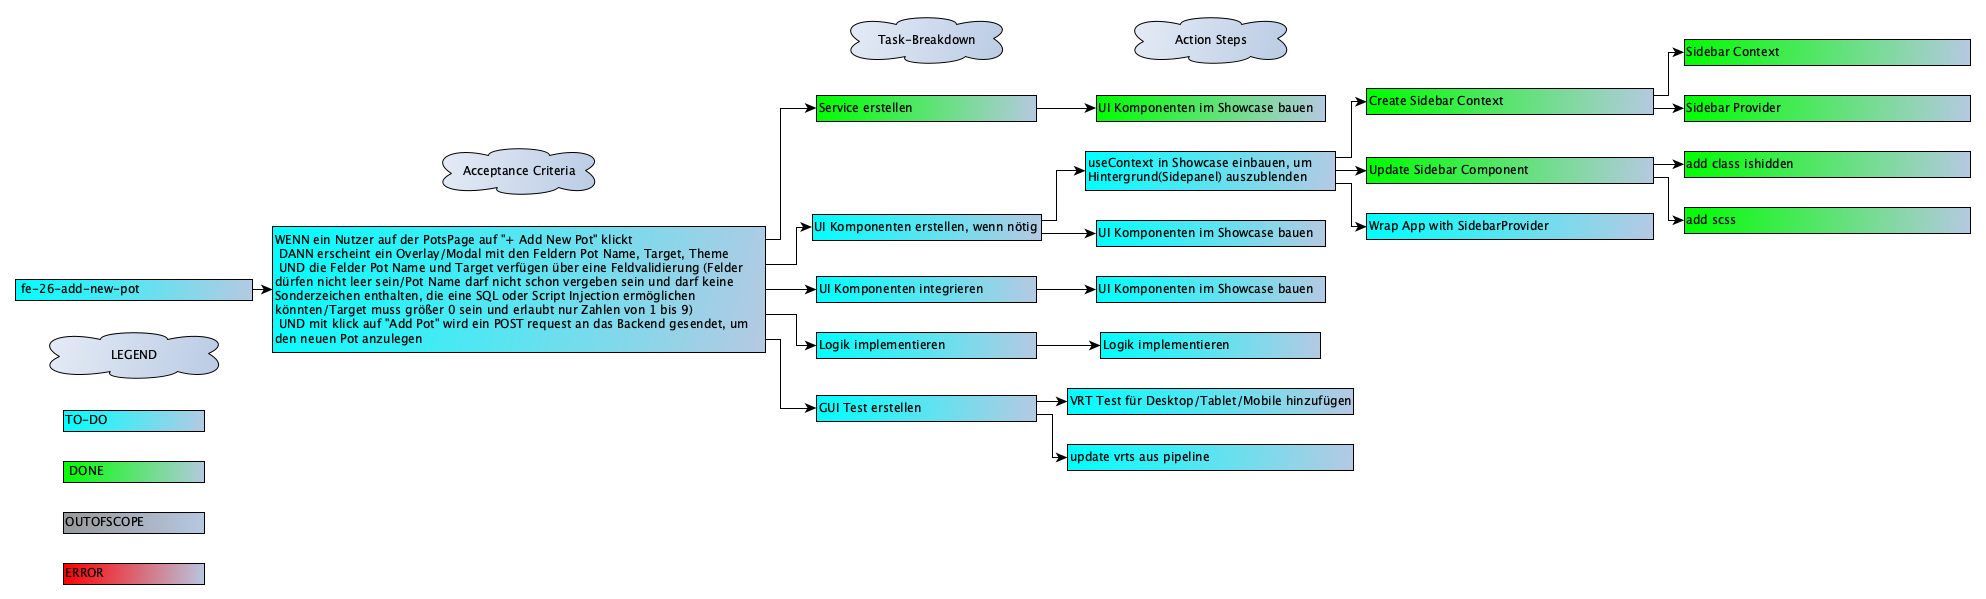
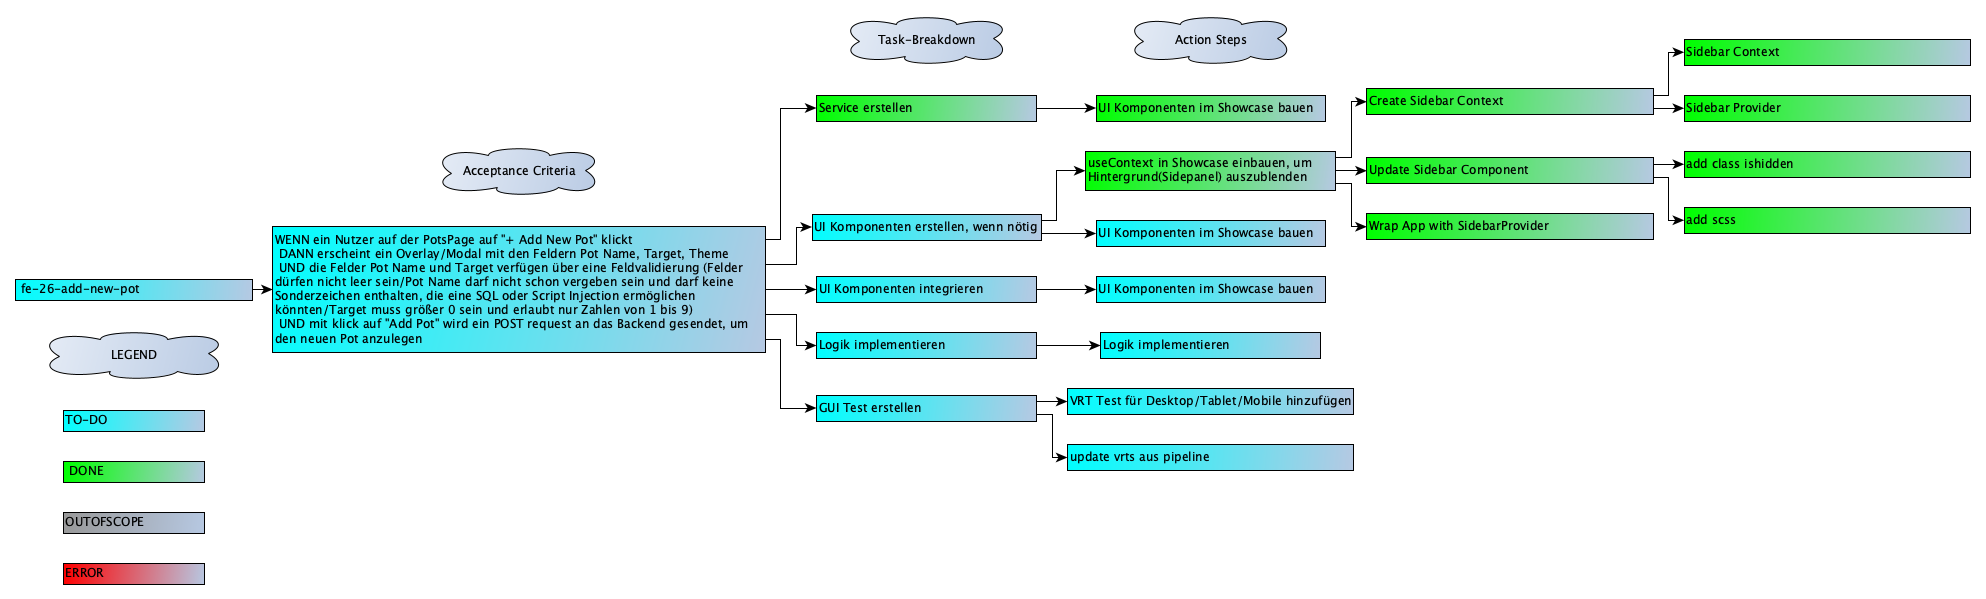
fe-26 wrap SidebarProvider around App

Changed region(s): [[0.5307, 0.2404, 0.6868, 0.3306], [0.6868, 0.3306, 0.8429, 0.4207]]

diff --git a/frontend/src/main.spec.tsx b/frontend/src/main.spec.tsx
@@ -1,5 +1,7 @@
 import { createRoot } from 'react-dom/client';
 import { renderApp } from './main';
+import { isValidElement, ReactElement } from 'react';
+import App from './App';
 
 jest.mock('react-dom/client', () => ({
   createRoot: jest.fn(() => ({
@@ -12,10 +14,28 @@ describe('main', () => {
     document.body.innerHTML = '<div id="root"></div>';
 
     renderApp();
-    const rootElement = document.getElementById('root');
+    const rootElement: HTMLElement | null = document.getElementById('root');
 
     expect(rootElement).not.toBeNull();
     expect(createRoot).toHaveBeenCalledWith(rootElement);
+  });
+
+  it('renders SidebarProvider', () => {
+    document.body.innerHTML = '<div id="root"></div>';
+
+    const content: ReactElement | undefined = renderApp();
+    const sidebarProvider = content?.props.children;
+
+    expect(isValidElement(sidebarProvider)).toBe(true);
+  });
+
+  it('renders App', () => {
+    document.body.innerHTML = '<div id="root"></div>';
+
+    const content: ReactElement | undefined = renderApp();
+    const sidebarProvider = content?.props.children;
+
+    expect(sidebarProvider?.props.children).toEqual(<App />);
   });
 
   it('logs an error if root element does not exist', () => {

diff --git a/frontend/src/main.tsx b/frontend/src/main.tsx
@@ -1,19 +1,25 @@
-import { StrictMode } from 'react';
+import { ReactElement, StrictMode } from 'react';
 import { createRoot } from 'react-dom/client';
 import App from './App';
 import './index.scss';
+import SidebarProvider from './components/provider/SidebarProvider';
 
-export const renderApp = () => {
+export const renderApp = (): ReactElement | undefined => {
   const rootElement: HTMLElement | null = document.getElementById('root');
 
   if (rootElement) {
-    createRoot(rootElement).render(
+    const content: ReactElement = (
       <StrictMode>
-        <App />
+        <SidebarProvider>
+          <App />
+        </SidebarProvider>
       </StrictMode>
     );
+    createRoot(rootElement).render(content);
+    return content;
   } else {
     console.error('Root element not found');
+    return undefined;
   }
 };
 
